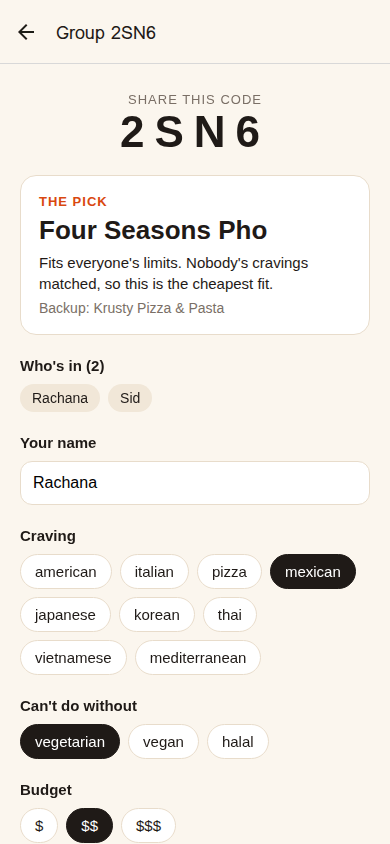
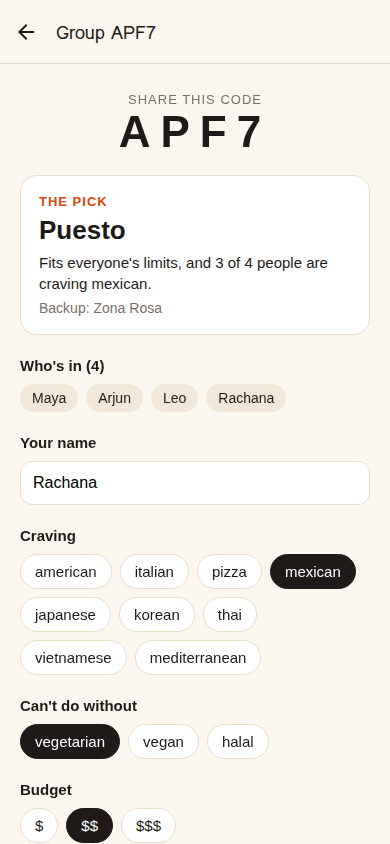
Real 4-person screenshot, waitlist admin remove

diff --git a/convex/waitlistAdmin.ts b/convex/waitlistAdmin.ts
@@ -1,0 +1,15 @@
+import { internalMutation } from "./_generated/server";
+import { v } from "convex/values";
+
+// Admin only (not callable from the web): remove one waitlist email.
+export const remove = internalMutation({
+  args: { email: v.string() },
+  handler: async (ctx, { email }) => {
+    const row = await ctx.db
+      .query("waitlist")
+      .withIndex("by_email", (q) => q.eq("email", email.trim().toLowerCase()))
+      .unique();
+    if (row) await ctx.db.delete(row._id);
+    return row ? "removed" : "not found";
+  },
+});
